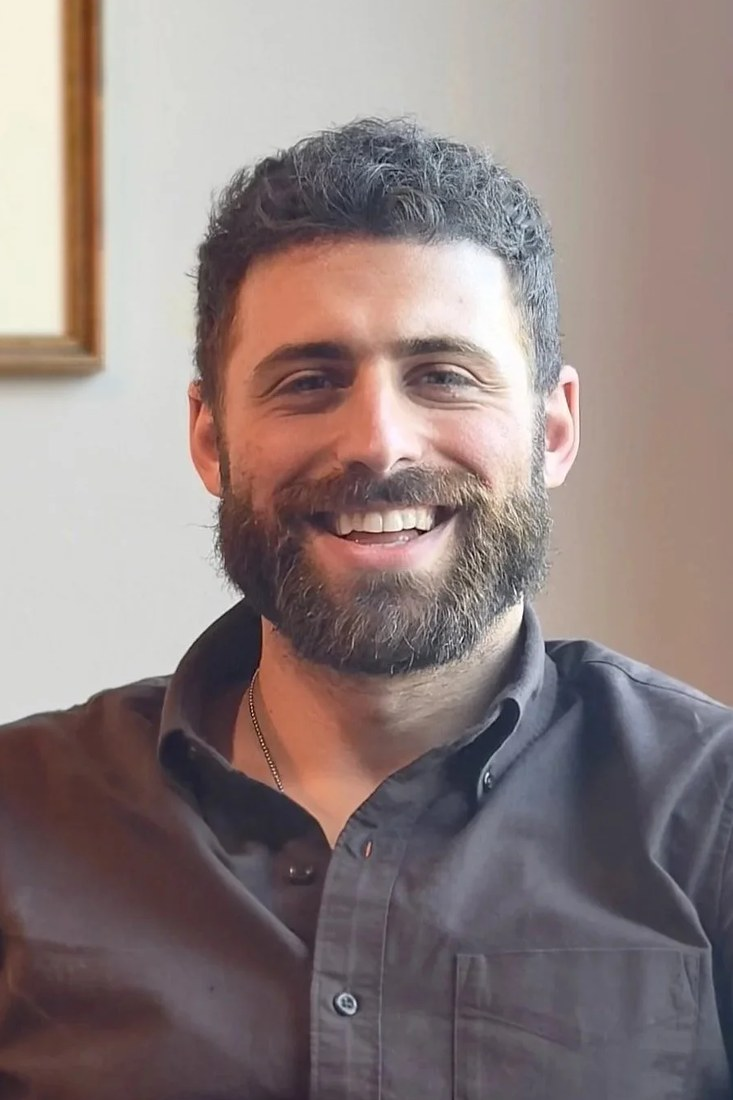
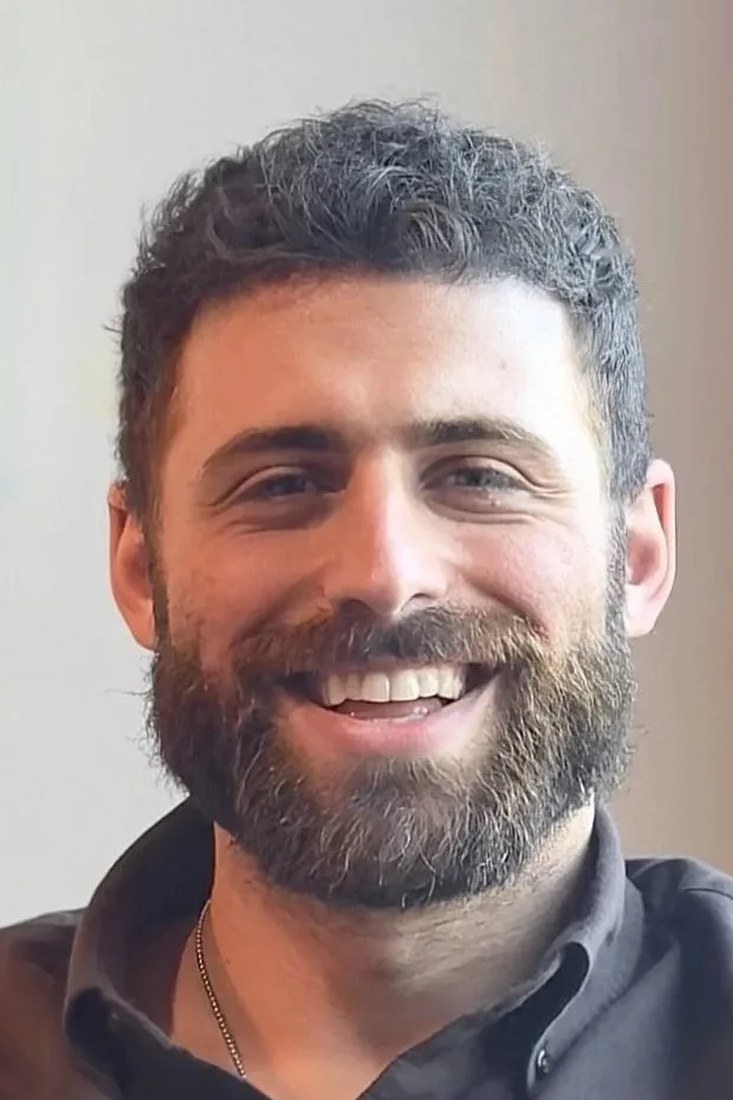
Tighter face crop on Max's photo

diff --git a/education.html b/education.html
@@ -95,7 +95,7 @@
           </div>
         </div>
         <figure class="event-photo">
-          <a href="education-psychodynamic-capacities.html"><img src="assets/img/max-levine.jpg?v=2" alt="Max Levine, Psy.D." /></a>
+          <a href="education-psychodynamic-capacities.html"><img src="assets/img/max-levine.jpg?v=3" alt="Max Levine, Psy.D." /></a>
         </figure>
       </div>
     </div>

diff --git a/education-psychodynamic-capacities.html b/education-psychodynamic-capacities.html
@@ -122,7 +122,7 @@
         </div>
       </div>
       <figure class="event-photo">
-        <img src="assets/img/max-levine.jpg?v=2" alt="Max Levine, Psy.D." />
+        <img src="assets/img/max-levine.jpg?v=3" alt="Max Levine, Psy.D." />
       </figure>
     </div>
   </section>
